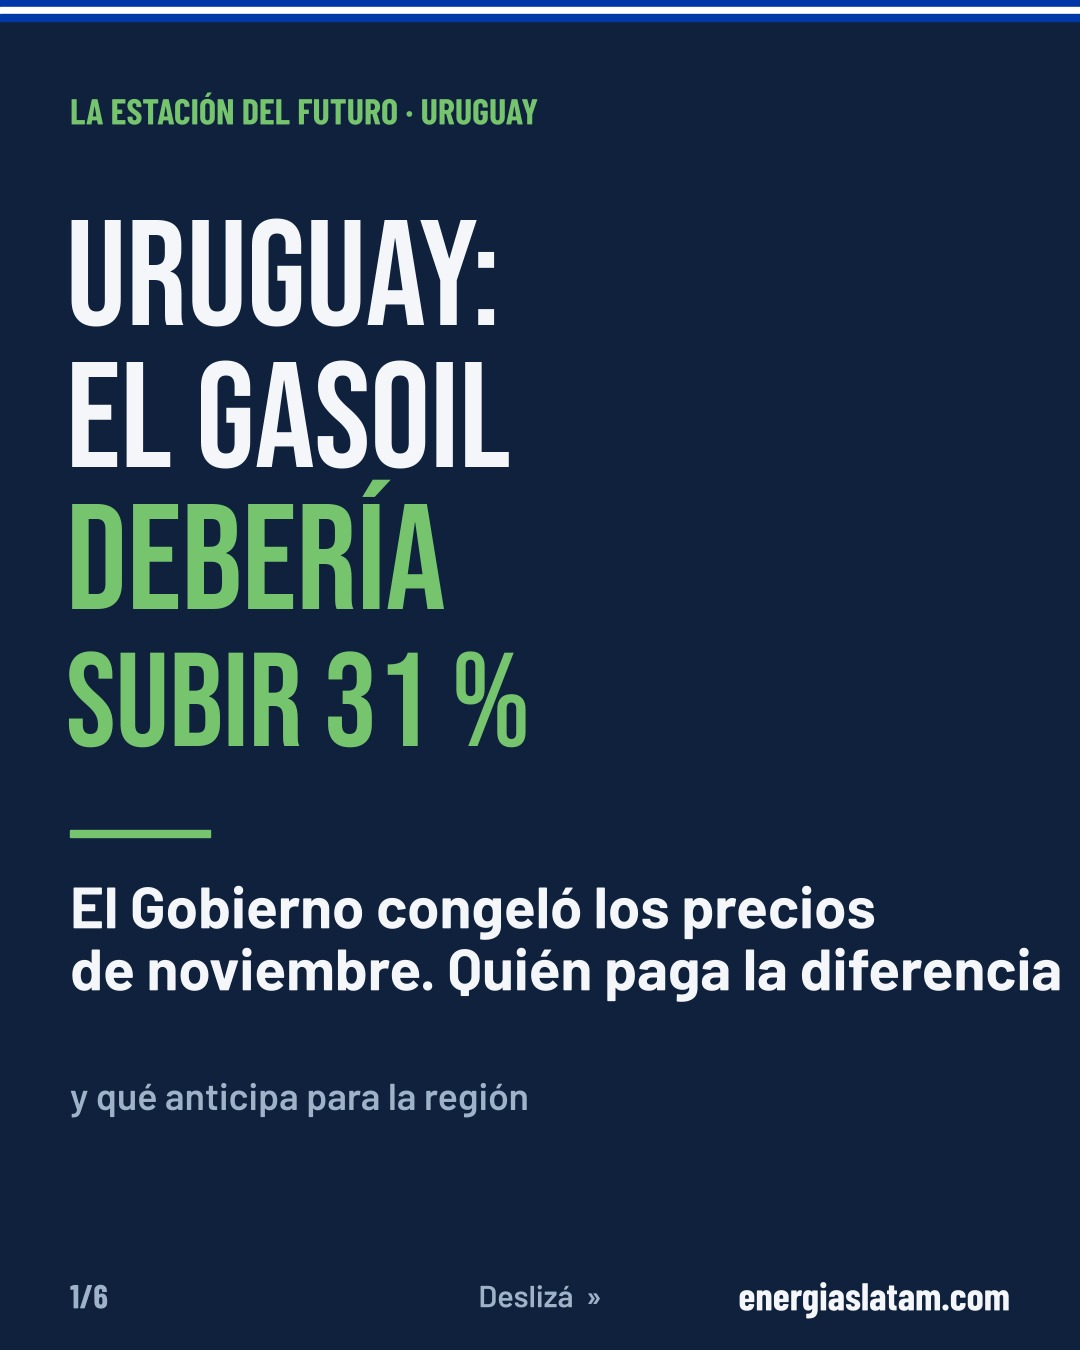
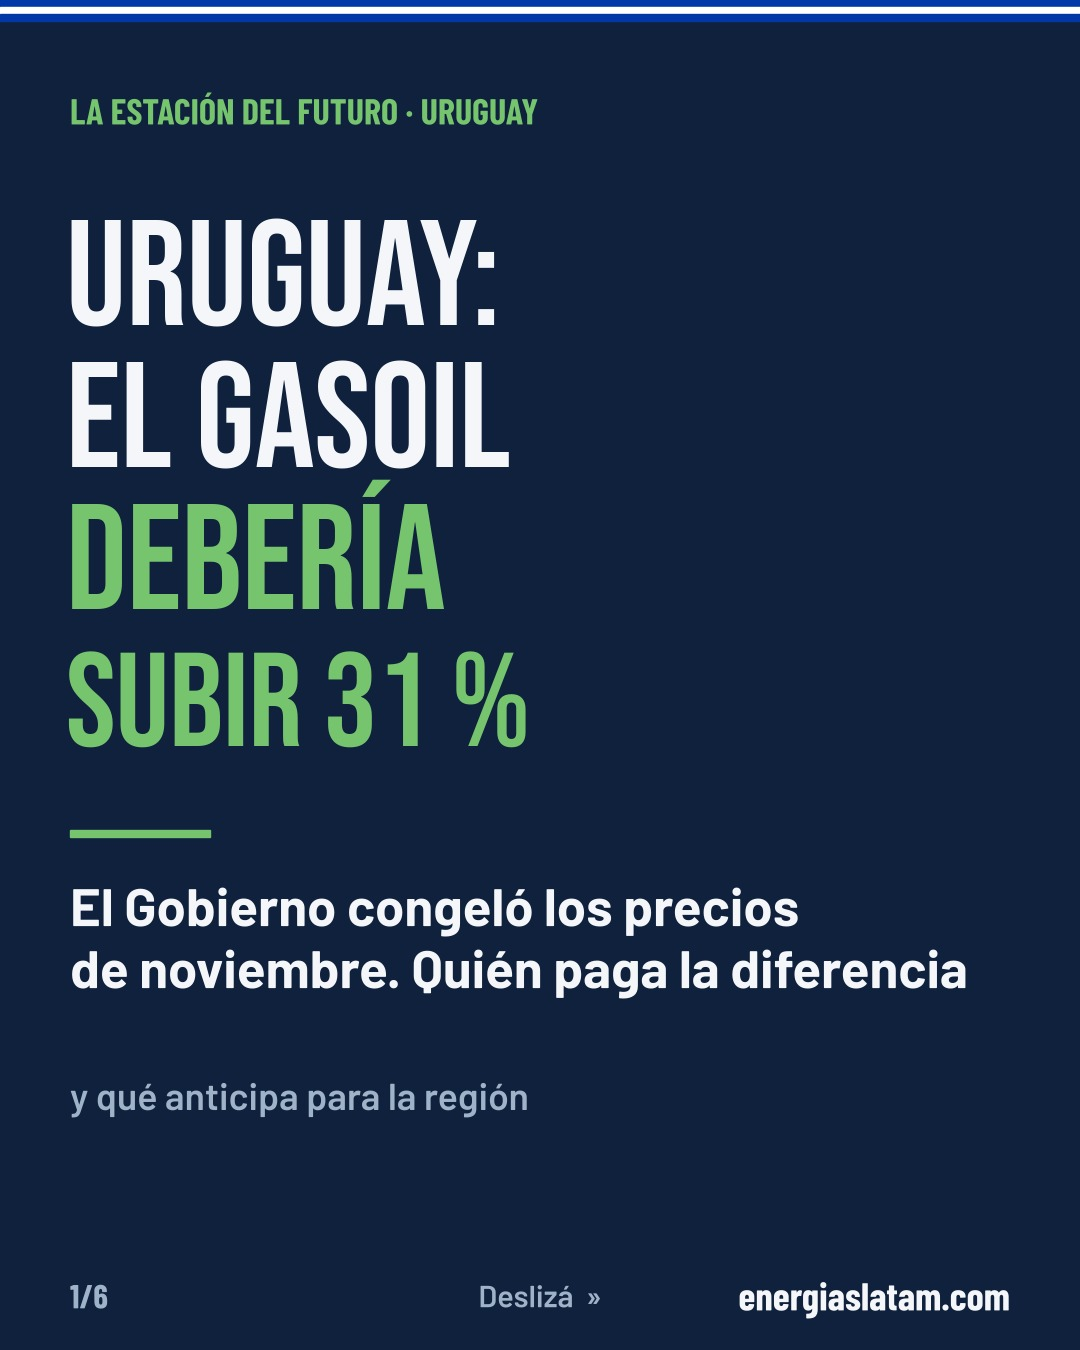
Ajuste placa 1 carrusel Uruguay
Claude-Session: https://claude.ai/code/session_01HHGRFrapr8AXyd2C4Baz1m

Changed region(s): [[0.0611, 0.6533, 0.9778, 0.7467]]

diff --git a/revision/uy9_carr.py b/revision/uy9_carr.py
@@ -41,7 +41,7 @@ for i,(l,c) in enumerate([('URUGUAY:',W),('EL GASOIL',W),('DEBERÍA',G),('SUBIR 
     ax.text(66,280+i*142,l,fontfamily=BB,fontsize=108 if i<3 else 96,color=c,va='center')
 ax.add_patch(Rectangle((70,830),140,7,color=G))
 for i,l in enumerate(['El Gobierno congeló los precios','de noviembre. Quién paga la diferencia']):
-    ax.text(70,905+i*62,l,fontfamily=B,fontweight='bold',fontsize=42,color=W,va='center')
+    ax.text(70,905+i*62,l,fontfamily=B,fontweight='bold',fontsize=38,color=W,va='center')
 ax.text(70,1095,'y qué anticipa para la región',fontfamily=B,fontweight='semibold',fontsize=27,color=M,va='center')
 save2(fig,1)
 fig,ax=base(2,'PRECIOS DE NOVIEMBRE')
